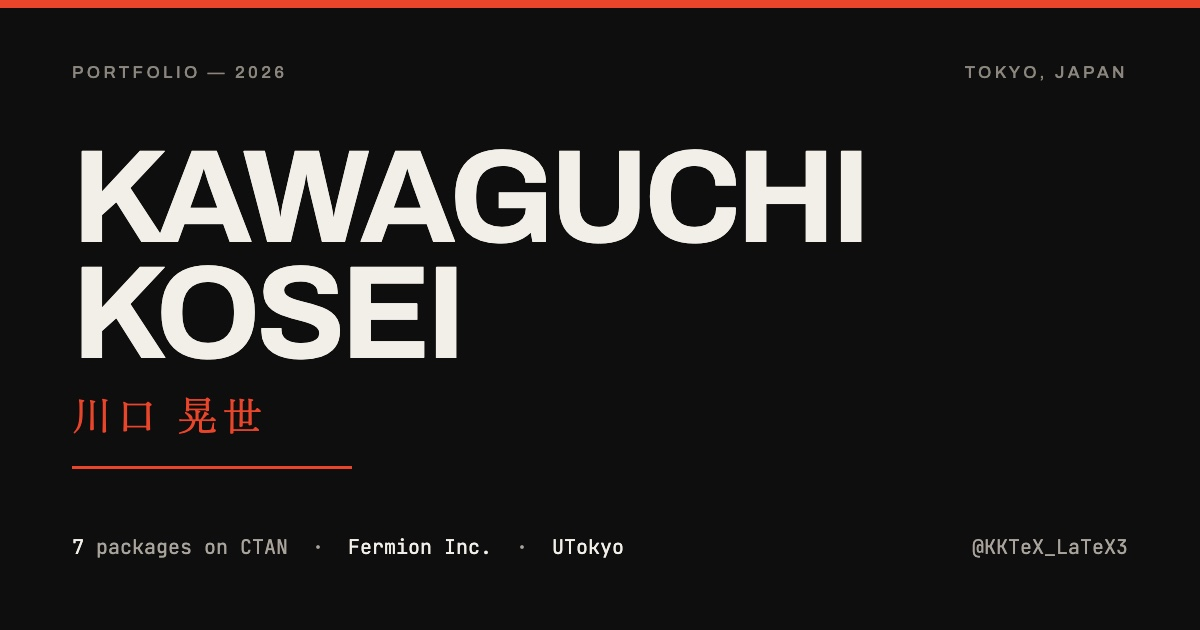
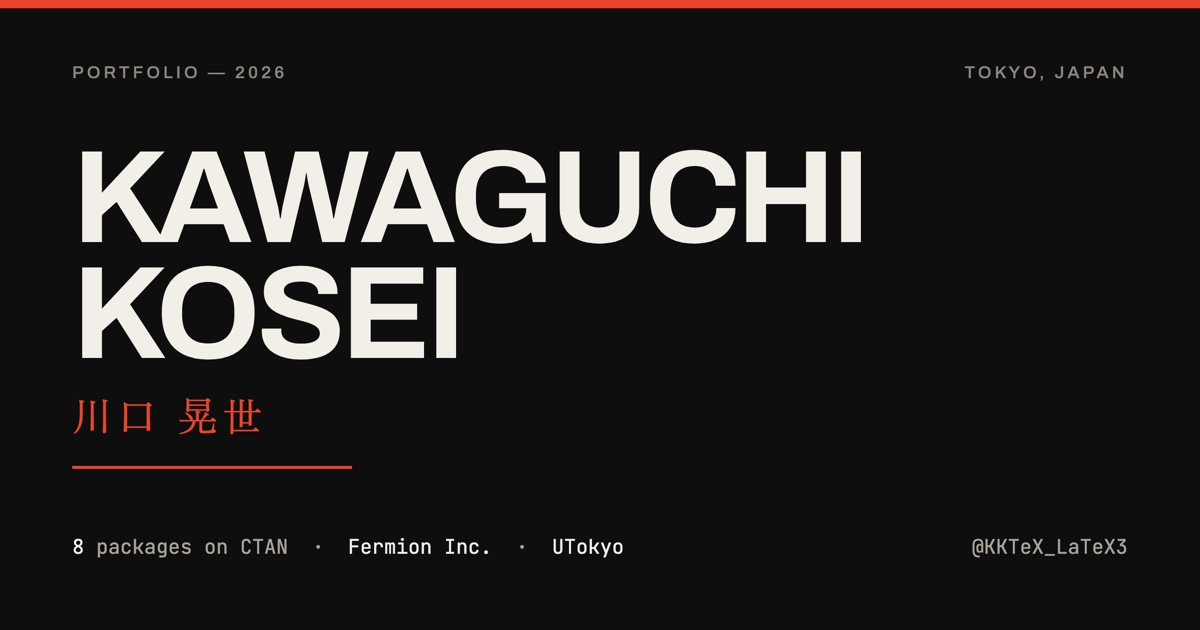
Give the MCP card a real image and add paracolrule
The TeX64 MCP product card had no image — the canvas export drew a CSS
terminal mock ($ curl mcp.tex64.com) in the slot the other three cards
fill with an OG image. Neither Fermion's own og:image (the company logo)
nor the MCP page's (the TeX64 one, already on the card beside it) is
worth reusing, so the card gets a composed image instead: the three
typeset samples the MCP page itself publishes, fanned on the card's dark
ground. They are the pages the server produced for a B5 lecture note,
which is the thing the card is actually selling.

paracolrule reached CTAN on 2026-08-22, so the Packages grid takes it as
the 8th card, replacing the vermilion "typeset sample" placeholder the
handoff left there — a card keeps the grid at a clean 4x2, whereas
adding one would have stranded a single cell on a third row. Seven
became eight everywhere it is counted: both hero paragraphs, the hero
stat, the Packages heading, the About paragraphs, the 2025-26 timeline
row, and the head strings and social card that assemble.py and og.html
generate.

The first two are body edits the canvas export does not carry, so
build/README.md now lists what a regeneration would silently revert.

diff --git a/public/index.html b/public/index.html
@@ -4,7 +4,7 @@
 <meta charset="utf-8">
 <meta name="viewport" content="width=device-width, initial-scale=1">
 <title>川口 晃世 / KKTeX — Portfolio</title>
-<meta name="description" content="TeXで組版の道具をつくっています。CTAN公式パッケージ7本の著作者、株式会社Fermion共同創業者、東京大学理科一類1年。">
+<meta name="description" content="TeXで組版の道具をつくっています。CTAN公式パッケージ8本の著作者、株式会社Fermion共同創業者、東京大学理科一類1年。">
 <meta name="author" content="川口 晃世 (KKTeX)">
 <meta name="theme-color" content="#0E0E0E">
 <link rel="canonical" href="https://kktexportfolio.klassikore.com/">
@@ -13,11 +13,11 @@
 <meta property="og:site_name" content="KKTeX">
 <meta property="og:url" content="https://kktexportfolio.klassikore.com/">
 <meta property="og:title" content="川口 晃世 / KKTeX — Portfolio">
-<meta property="og:description" content="TeXで組版の道具をつくっています。CTAN公式パッケージ7本の著作者、株式会社Fermion共同創業者、東京大学理科一類1年。">
+<meta property="og:description" content="TeXで組版の道具をつくっています。CTAN公式パッケージ8本の著作者、株式会社Fermion共同創業者、東京大学理科一類1年。">
 <meta property="og:image" content="https://kktexportfolio.klassikore.com/uploads/og.jpg">
 <meta property="og:image:width" content="1200">
 <meta property="og:image:height" content="630">
-<meta property="og:image:alt" content="Kosei Kawaguchi (KKTeX) — author of seven packages on CTAN, co-founder of Fermion Inc., first-year student at the University of Tokyo.">
+<meta property="og:image:alt" content="Kosei Kawaguchi (KKTeX) — author of eight packages on CTAN, co-founder of Fermion Inc., first-year student at the University of Tokyo.">
 <meta property="og:locale" content="ja_JP">
 <meta property="og:locale:alternate" content="en_US">
 
@@ -25,7 +25,7 @@
 <meta name="twitter:site" content="@KKTeX_LaTeX3">
 <meta name="twitter:creator" content="@KKTeX_LaTeX3">
 <meta name="twitter:title" content="川口 晃世 / KKTeX — Portfolio">
-<meta name="twitter:description" content="TeXで組版の道具をつくっています。CTAN公式パッケージ7本の著作者、株式会社Fermion共同創業者、東京大学理科一類1年。">
+<meta name="twitter:description" content="TeXで組版の道具をつくっています。CTAN公式パッケージ8本の著作者、株式会社Fermion共同創業者、東京大学理科一類1年。">
 <meta name="twitter:image" content="https://kktexportfolio.klassikore.com/uploads/og.jpg">
 
 <!-- Google Search Console ownership. Keep this: removing it un-verifies the property. -->
@@ -51,8 +51,8 @@
       "givenName": "晃世",
       "url": "https://kktexportfolio.klassikore.com/",
       "image": "https://kktexportfolio.klassikore.com/uploads/og.jpg",
-      "description": "TeXで組版の道具をつくっています。CTAN公式パッケージ7本の著作者、株式会社Fermion共同創業者、東京大学理科一類1年。",
-      "disambiguatingDescription": "Author of seven official packages on CTAN, co-founder of Fermion Inc., first-year student at the University of Tokyo. Currently writing a book on expl3.",
+      "description": "TeXで組版の道具をつくっています。CTAN公式パッケージ8本の著作者、株式会社Fermion共同創業者、東京大学理科一類1年。",
+      "disambiguatingDescription": "Author of eight official packages on CTAN, co-founder of Fermion Inc., first-year student at the University of Tokyo. Currently writing a book on expl3.",
       "knowsAbout": ["TeX", "LaTeX", "expl3", "組版", "typesetting"],
       "affiliation": {
         "@type": "CollegeOrUniversity",
@@ -86,7 +86,7 @@
       "@id": "https://kktexportfolio.klassikore.com/#website",
       "url": "https://kktexportfolio.klassikore.com/",
       "name": "川口 晃世 / KKTeX — Portfolio",
-      "description": "TeXで組版の道具をつくっています。CTAN公式パッケージ7本の著作者、株式会社Fermion共同創業者、東京大学理科一類1年。",
+      "description": "TeXで組版の道具をつくっています。CTAN公式パッケージ8本の著作者、株式会社Fermion共同創業者、東京大学理科一類1年。",
       "inLanguage": ["ja", "en"],
       "author": {"@id": "https://kktexportfolio.klassikore.com/#person"},
       "publisher": {"@id": "https://kktexportfolio.klassikore.com/#person"},
@@ -255,10 +255,10 @@ pre{min-height:244px}
       <div data-reveal="1" style="margin-top:14px;font:400 clamp(19px,3.6cqw,40px)/1 'Zen Old Mincho',serif;letter-spacing:.1em;color:#E8452A">川口 晃世</div>
       <div data-rule="1" style="margin-top:28px;height:1px;background:#E8452A"></div>
       
-        <p data-l="ja"  data-reveal="1" style="margin:26px 0 0;max-width:26em;font:400 clamp(16px,1.6vw,19px)/2.05 'Zen Old Mincho',serif;color:#CFCBC2;text-wrap:pretty">TeXで組版の道具をつくっています。CTAN公式パッケージ7本の著作者、株式会社Fermion共同創業者、東京大学理科一類1年。</p>
+        <p data-l="ja"  data-reveal="1" style="margin:26px 0 0;max-width:26em;font:400 clamp(16px,1.6vw,19px)/2.05 'Zen Old Mincho',serif;color:#CFCBC2;text-wrap:pretty">TeXで組版の道具をつくっています。CTAN公式パッケージ8本の著作者、株式会社Fermion共同創業者、東京大学理科一類1年。</p>
       
       
-        <p data-l="en"  data-reveal="1" style="margin:26px 0 0;max-width:28em;font:400 clamp(17px,1.7vw,20px)/1.85 'EB Garamond',serif;color:#CFCBC2;text-wrap:pretty">I build typesetting tools in TeX. Author of seven packages on CTAN, co-founder of Fermion Inc., first-year student at the University of Tokyo.</p>
+        <p data-l="en"  data-reveal="1" style="margin:26px 0 0;max-width:28em;font:400 clamp(17px,1.7vw,20px)/1.85 'EB Garamond',serif;color:#CFCBC2;text-wrap:pretty">I build typesetting tools in TeX. Author of eight packages on CTAN, co-founder of Fermion Inc., first-year student at the University of Tokyo.</p>
       
     </div>
     <div style="display:flex;flex-direction:column;gap:22px">
@@ -288,7 +288,7 @@ pre{min-height:244px}
     </div>
   </div>
   <div style="margin-top:44px;display:grid;grid-template-columns:repeat(auto-fit,minmax(190px,1fr));gap:1px;background:rgba(242,239,232,.18);border-top:1px solid rgba(242,239,232,.18)">
-    <div data-reveal="1" style="background:#0E0E0E;padding:22px 0 0"><div style="font:700 clamp(38px,5vw,64px)/1 Archivo,sans-serif;letter-spacing:-.02em;color:#E8452A">07</div><div data-l="ja"  style="margin-top:8px;font:400 13px/1.7 'Zen Old Mincho',serif;color:#8B867D">CTAN公式パッケージ</div><div data-l="en"  style="margin-top:8px;font:400 14px/1.6 'EB Garamond',serif;color:#8B867D">packages on CTAN</div></div>
+    <div data-reveal="1" style="background:#0E0E0E;padding:22px 0 0"><div style="font:700 clamp(38px,5vw,64px)/1 Archivo,sans-serif;letter-spacing:-.02em;color:#E8452A">08</div><div data-l="ja"  style="margin-top:8px;font:400 13px/1.7 'Zen Old Mincho',serif;color:#8B867D">CTAN公式パッケージ</div><div data-l="en"  style="margin-top:8px;font:400 14px/1.6 'EB Garamond',serif;color:#8B867D">packages on CTAN</div></div>
     <div data-stat data-reveal="1" style="background:#0E0E0E;padding:22px 0 0 20px"><div style="font:700 clamp(38px,5vw,64px)/1 Archivo,sans-serif;letter-spacing:-.02em;color:#F2EFE8">4</div><div data-l="ja"  style="margin-top:8px;font:400 13px/1.7 'Zen Old Mincho',serif;color:#8B867D">Fermionのプロダクト</div><div data-l="en"  style="margin-top:8px;font:400 14px/1.6 'EB Garamond',serif;color:#8B867D">products at Fermion</div></div>
     <div data-stat data-reveal="1" style="background:#0E0E0E;padding:22px 0 0 20px"><div style="font:700 clamp(38px,5vw,64px)/1 Archivo,sans-serif;letter-spacing:-.02em;color:#F2EFE8">11/21</div><div data-l="ja"  style="margin-top:8px;font:400 13px/1.7 'Zen Old Mincho',serif;color:#8B867D">TeXConf2026 登壇</div><div data-l="en"  style="margin-top:8px;font:400 14px/1.6 'EB Garamond',serif;color:#8B867D">speaking at TeXConf2026</div></div>
   </div>
@@ -308,12 +308,12 @@ pre{min-height:244px}
         
           <p data-l="ja"  data-reveal="1" style="margin:0;max-width:42em;font:400 clamp(16px,1.35vw,18px)/2.2 'Zen Old Mincho',serif;color:#26251F;text-wrap:pretty">高校一年の冬、同期の影響でLaTeXを触りはじめた。最初にやっていたのは鉄緑会の教材をなんとかして再現することで、黎明期のChatGPTと問答しながら、今見るとひどいと言わざるを得ないコードを書いて無理やり動かしていた。</p>
           <p data-l="ja"  data-reveal="1" style="margin:0;max-width:42em;font:400 clamp(16px,1.35vw,18px)/2.2 'Zen Old Mincho',serif;color:#26251F;text-wrap:pretty">2025年、東京大学理科三類を受験して失敗し、一年の暇ができた。TeXを本格的に扱いはじめたのはここからである。まずTeXの書籍を執筆しようとして翔泳社に持ち込んだが、企画は流れた。その間に書き続けていたOSSパッケージだけが手元に残った。</p>
-          <p data-l="ja"  data-reveal="1" style="margin:0;max-width:42em;font:400 clamp(16px,1.35vw,18px)/2.2 'Zen Old Mincho',serif;color:#26251F;text-wrap:pretty">特殊記号を扱うKKsymbols、解答欄やマークシートを簡単につくるKKran、漢文組版のgckanbunのリワークなど、合計7本の公式パッケージの著作者になった。2026年に東京大学理科一類へ入学し、同大学三年生であった幸川卓実氏と株式会社Fermionを立ち上げた。</p>
+          <p data-l="ja"  data-reveal="1" style="margin:0;max-width:42em;font:400 clamp(16px,1.35vw,18px)/2.2 'Zen Old Mincho',serif;color:#26251F;text-wrap:pretty">特殊記号を扱うKKsymbols、解答欄やマークシートを簡単につくるKKran、漢文組版のgckanbunのリワークなど、合計8本の公式パッケージの著作者になった。2026年に東京大学理科一類へ入学し、同大学三年生であった幸川卓実氏と株式会社Fermionを立ち上げた。</p>
         
         
           <p data-l="en"  data-reveal="1" style="margin:0;max-width:40em;font:400 clamp(17px,1.5vw,20px)/1.95 'EB Garamond',serif;color:#26251F;text-wrap:pretty">I started with LaTeX in the winter of my first high-school year, pushed along by a classmate. What I actually did was try to reproduce my cram-school textbooks, arguing with an early version of ChatGPT and forcing code I would now call unreadable to compile.</p>
           <p data-l="en"  data-reveal="1" style="margin:0;max-width:40em;font:400 clamp(17px,1.5vw,20px)/1.95 'EB Garamond',serif;color:#26251F;text-wrap:pretty">In 2025 I failed the entrance exam for the University of Tokyo's Faculty of Science III, which left me a spare year. That is where TeX became serious. I first tried to write a book and pitched it to Shoeisha; the plan fell through, and what remained were the packages I had been writing all along.</p>
-          <p data-l="en"  data-reveal="1" style="margin:0;max-width:40em;font:400 clamp(17px,1.5vw,20px)/1.95 'EB Garamond',serif;color:#26251F;text-wrap:pretty">Seven of them are now official CTAN packages. In 2026 I entered the University of Tokyo and founded Fermion Inc. with Takumi Yukikawa, then a third-year student there.</p>
+          <p data-l="en"  data-reveal="1" style="margin:0;max-width:40em;font:400 clamp(17px,1.5vw,20px)/1.95 'EB Garamond',serif;color:#26251F;text-wrap:pretty">Eight of them are now official CTAN packages. In 2026 I entered the University of Tokyo and founded Fermion Inc. with Takumi Yukikawa, then a third-year student there.</p>
         
       </div>
     </div>
@@ -343,8 +343,8 @@ pre{min-height:244px}
       </div>
       <div data-tlrow data-reveal="1" style="display:grid;grid-template-columns:minmax(150px,.42fr) minmax(0,1fr);gap:clamp(20px,4vw,56px);align-items:baseline;padding:clamp(20px,2.6vw,32px) 0;border-top:1px solid rgba(242,239,232,.16)">
         <div style="font:700 clamp(34px,5.4vw,76px)/1 Archivo,sans-serif;letter-spacing:-.03em;color:#3A3833">2025–26</div>
-        <div data-l="ja"  style="font:400 clamp(15px,1.3vw,17px)/1.95 'Zen Old Mincho',serif;color:#CFCBC2">CTAN公式パッケージ7本の著作者になる。</div>
-        <div data-l="en"  style="font:400 clamp(16px,1.4vw,18px)/1.8 'EB Garamond',serif;color:#CFCBC2">Became the author of seven official CTAN packages.</div>
+        <div data-l="ja"  style="font:400 clamp(15px,1.3vw,17px)/1.95 'Zen Old Mincho',serif;color:#CFCBC2">CTAN公式パッケージ8本の著作者になる。</div>
+        <div data-l="en"  style="font:400 clamp(16px,1.4vw,18px)/1.8 'EB Garamond',serif;color:#CFCBC2">Became the author of eight official CTAN packages.</div>
       </div>
       <div data-tlrow data-reveal="1" style="display:grid;grid-template-columns:minmax(150px,.42fr) minmax(0,1fr);gap:clamp(20px,4vw,56px);align-items:baseline;padding:clamp(20px,2.6vw,32px) 0;border-top:1px solid rgba(242,239,232,.16)">
         <div style="font:700 clamp(34px,5.4vw,76px)/1 Archivo,sans-serif;letter-spacing:-.03em;color:#3A3833">2026</div>
@@ -365,7 +365,7 @@ pre{min-height:244px}
   <div style="max-width:1180px;margin:0 auto">
     <div style="display:flex;align-items:baseline;justify-content:space-between;gap:20px;font:500 10.5px/1 Archivo,sans-serif;letter-spacing:.2em;text-transform:uppercase;color:#6E6A63"><div>03 — Packages</div><a href="https://ctan.org/author/kktex" style="font:400 11px/1 'JetBrains Mono',monospace;letter-spacing:.04em;color:#0E0E0E" class="hv3">ctan.org/author/kktex ↗</a></div>
     <div data-rule="1" style="margin-top:14px;height:1px;background:rgba(14,14,14,.22)"></div>
-    <h2 data-mask="view" style="margin:clamp(28px,3.6vw,48px) 0 0;font:700 clamp(30px,5.2vw,74px)/1 Archivo,sans-serif;letter-spacing:-.03em;color:#0E0E0E"><span class="m">Seven packages<br>on CTAN</span></h2>
+    <h2 data-mask="view" style="margin:clamp(28px,3.6vw,48px) 0 0;font:700 clamp(30px,5.2vw,74px)/1 Archivo,sans-serif;letter-spacing:-.03em;color:#0E0E0E"><span class="m">Eight packages<br>on CTAN</span></h2>
     <div data-cardgrid style="margin-top:clamp(32px,4vw,56px);display:grid;grid-template-columns:repeat(auto-fill,minmax(290px,1fr));gap:1px;background:rgba(14,14,14,.2);border:1px solid rgba(14,14,14,.2)">
       <a data-reveal="1" data-card href="https://ctan.org/pkg/kksymbols" style="display:flex;flex-direction:column;gap:12px;padding:26px;background:#F2EFE8;color:#0E0E0E" class="hv4">
         <div style="display:flex;justify-content:space-between;align-items:baseline;gap:10px"><div style="font:500 clamp(16px,5.8cqw,19px)/1 'JetBrains Mono',monospace">KKsymbols</div><div style="font:500 10px/1 Archivo,sans-serif;letter-spacing:.16em;color:#E8452A">01</div></div>
@@ -402,7 +402,11 @@ pre{min-height:244px}
         <div style="font:400 15px/1.7 'EB Garamond',serif;opacity:.75">Provides underlines and other highlighting which can be used in vertical mode.</div>
         <div data-l="ja"  style="font:400 13px/1.9 'Zen Old Mincho',serif;opacity:.6">縦組でも使える下線・強調。</div>
       </a>
-      <div data-reveal="1" style="display:flex;align-items:flex-end;padding:26px;background:#E8452A;color:#F2EFE8;font:500 11px/1.8 Archivo,sans-serif;letter-spacing:.16em;text-transform:uppercase">typeset sample<br>組版サンプル</div>
+      <a data-reveal="1" data-card href="https://ctan.org/pkg/paracolrule" style="display:flex;flex-direction:column;gap:12px;padding:26px;background:#F2EFE8;color:#0E0E0E" class="hv4">
+        <div style="display:flex;justify-content:space-between;align-items:baseline;gap:10px"><div style="font:500 clamp(16px,5.8cqw,19px)/1 'JetBrains Mono',monospace">paracolrule</div><div style="font:500 10px/1 Archivo,sans-serif;letter-spacing:.16em;color:#E8452A">08</div></div>
+        <div style="font:400 15px/1.7 'EB Garamond',serif;opacity:.75">Decorative separator rules for paracol.</div>
+        <div data-l="ja"  style="font:400 13px/1.9 'Zen Old Mincho',serif;opacity:.6">paracolの段間罫を実線・破線・点線・二重線などで描き分ける。</div>
+      </a>
     </div>
   </div>
 </section>
@@ -432,7 +436,7 @@ pre{min-height:244px}
         <div style="padding:22px"><div style="display:flex;justify-content:space-between;align-items:baseline;gap:10px"><div style="font:500 clamp(15px,4.6cqw,18px)/1 'JetBrains Mono',monospace">Evolton</div><div style="font:400 11px/1 'JetBrains Mono',monospace;color:#E8452A">evolton.jp ↗</div></div><div data-l="ja"  style="margin-top:12px;font:400 13.5px/2 'Zen Old Mincho',serif;color:#A9A49B">問題の写真から解答PDFを作成。13大学・4,313問の入試数学 過去問データベースとオーダーメイド問題集。</div><div data-l="en"  style="margin-top:12px;font:400 15px/1.8 'EB Garamond',serif;color:#A9A49B">Answer PDFs built from a photo of a problem, plus a database of 4,313 entrance-exam problems from 13 universities.</div></div>
       </a>
       <a data-reveal="1" data-card href="https://tex64.com/ja/mcp" style="display:flex;flex-direction:column;background:#0E0E0E;color:#F2EFE8" class="hv5">
-        <div style="aspect-ratio:3/2;border-bottom:1px solid rgba(242,239,232,.2);display:flex;align-items:center;justify-content:center;padding:24px;background:#000"><div style="font:400 14px/1.95 'JetBrains Mono',monospace;color:#F2EFE8">$ curl mcp.tex64.com<br><span style="color:#E8452A">TeX64 MCP: ok</span></div></div>
+        <img src="uploads/tex64-mcp-og.jpg" alt="TeX64 MCP" style="display:block;width:100%;aspect-ratio:3/2;object-fit:contain;background:#000;border-bottom:1px solid rgba(242,239,232,.2)">
         <div style="padding:22px"><div style="display:flex;justify-content:space-between;align-items:baseline;gap:10px"><div style="font:500 clamp(15px,4.6cqw,18px)/1 'JetBrains Mono',monospace">TeX64 MCP</div><div style="font:400 11px/1 'JetBrains Mono',monospace;color:#E8452A">tex64.com/ja/mcp ↗</div></div><div data-l="ja"  style="margin-top:12px;font:400 13.5px/2 'Zen Old Mincho',serif;color:#A9A49B">TeX64のMCPサーバ。AIエージェントから組版環境を叩くためのエンドポイント。</div><div data-l="en"  style="margin-top:12px;font:400 15px/1.8 'EB Garamond',serif;color:#A9A49B">The MCP server for TeX64 — an endpoint for AI agents to reach the typesetting environment.</div></div>
       </a>
     </div>

diff --git a/build/mcp-card.html b/build/mcp-card.html
@@ -1,0 +1,21 @@
+<!DOCTYPE html><html><head><meta charset="utf-8">
+<style>
+*{box-sizing:border-box;margin:0}
+body{width:1200px;height:800px;background:#0E0E0E;overflow:hidden;position:relative}
+.stage{position:absolute;inset:0;display:flex;align-items:center;justify-content:center}
+img{position:absolute;height:600px;width:auto;display:block;
+    border:1px solid rgba(242,239,232,.16);background:#F2EFE8}
+.l{transform:translateX(-255px) rotate(-5deg);box-shadow:0 24px 60px rgba(0,0,0,.6)}
+.r{transform:translateX( 255px) rotate( 5deg);box-shadow:0 24px 60px rgba(0,0,0,.6)}
+.c{transform:scale(1.05);box-shadow:0 34px 90px rgba(0,0,0,.75);
+   border-color:rgba(242,239,232,.28)}
+.band{position:absolute;left:0;right:0;bottom:0;height:4px;background:#E8452A}
+</style></head>
+<body>
+<div class="stage">
+  <img class="l" src="assets/mcp/sample-body.png" alt="">
+  <img class="r" src="assets/mcp/sample-exercise.png" alt="">
+  <img class="c" src="assets/mcp/sample-cover.png" alt="">
+</div>
+<div class="band"></div>
+</body></html>

diff --git a/build/og.html b/build/og.html
@@ -25,7 +25,7 @@ h1{font:700 132px/.88 Archivo,sans-serif;letter-spacing:-.035em;color:#F2EFE8}
   <div class="rule"></div>
 </div>
 <div class="bot">
-  <div class="tag"><b>7</b> packages on CTAN &nbsp;·&nbsp; <b>Fermion Inc.</b> &nbsp;·&nbsp; <b>UTokyo</b></div>
+  <div class="tag"><b>8</b> packages on CTAN &nbsp;·&nbsp; <b>Fermion Inc.</b> &nbsp;·&nbsp; <b>UTokyo</b></div>
   <div class="tag">@KKTeX_LaTeX3</div>
 </div>
 </body></html>

diff --git a/build/assemble.py b/build/assemble.py
@@ -31,9 +31,9 @@ body, n = nav_pat.subn(
 assert n == 1, f"nav wrap: {n}"
 
 TITLE = "川口 晃世 / KKTeX — Portfolio"
-DESC  = ("TeXで組版の道具をつくっています。CTAN公式パッケージ7本の著作者、"
+DESC  = ("TeXで組版の道具をつくっています。CTAN公式パッケージ8本の著作者、"
          "株式会社Fermion共同創業者、東京大学理科一類1年。")
-DESC_EN = ("Kosei Kawaguchi (KKTeX) — author of seven packages on CTAN, "
+DESC_EN = ("Kosei Kawaguchi (KKTeX) — author of eight packages on CTAN, "
            "co-founder of Fermion Inc., first-year student at the University of Tokyo.")
 
 head = f'''<meta charset="utf-8">
@@ -86,8 +86,8 @@ head = f'''<meta charset="utf-8">
       "givenName": "晃世",
       "url": "{SITE}/",
       "image": "{SITE}/uploads/og.jpg",
-      "description": "TeXで組版の道具をつくっています。CTAN公式パッケージ7本の著作者、株式会社Fermion共同創業者、東京大学理科一類1年。",
-      "disambiguatingDescription": "Author of seven official packages on CTAN, co-founder of Fermion Inc., first-year student at the University of Tokyo. Currently writing a book on expl3.",
+      "description": "TeXで組版の道具をつくっています。CTAN公式パッケージ8本の著作者、株式会社Fermion共同創業者、東京大学理科一類1年。",
+      "disambiguatingDescription": "Author of eight official packages on CTAN, co-founder of Fermion Inc., first-year student at the University of Tokyo. Currently writing a book on expl3.",
       "knowsAbout": ["TeX", "LaTeX", "expl3", "組版", "typesetting"],
       "affiliation": {{
         "@type": "CollegeOrUniversity",
@@ -121,7 +121,7 @@ head = f'''<meta charset="utf-8">
       "@id": "{SITE}/#website",
       "url": "{SITE}/",
       "name": "川口 晃世 / KKTeX — Portfolio",
-      "description": "TeXで組版の道具をつくっています。CTAN公式パッケージ7本の著作者、株式会社Fermion共同創業者、東京大学理科一類1年。",
+      "description": "TeXで組版の道具をつくっています。CTAN公式パッケージ8本の著作者、株式会社Fermion共同創業者、東京大学理科一類1年。",
       "inLanguage": ["ja", "en"],
       "author": {{"@id": "{SITE}/#person"}},
       "publisher": {{"@id": "{SITE}/#person"}},

diff --git a/build/README.md b/build/README.md
@@ -49,6 +49,19 @@ animation — the failure the handoff notes warn about.
     --screenshot=og.png --window-size=1200,630 "file://$PWD/build/og.html"
   sips -s format jpeg -s formatOptions 88 og.png --out public/uploads/og.jpg
   ```
+- `build/mcp-card.html` — source for the 1200x800 TeX64 MCP card image. It fans
+  the three pages in `build/assets/mcp/`, which are the samples the MCP page
+  itself publishes (`https://tex64.com/mcp/sample-{cover,body,exercise}.png`,
+  fetched 2026-08-23) — a B5 lecture note the server typeset. To re-render:
+  ```
+  "/Applications/Google Chrome.app/Contents/MacOS/Google Chrome" --headless \
+    --force-device-scale-factor=2 --screenshot=mcp.png --window-size=1200,800 \
+    "file://$PWD/build/mcp-card.html"
+  sips -s format jpeg -s formatOptions 92 -Z 1200 mcp.png \
+    --out public/uploads/tex64-mcp-og.jpg
+  ```
+  Render at 2x and let `sips -Z 1200` downsample; at 1x the page text in the
+  fanned pages goes to mush.
 
 ## Images
 
@@ -56,5 +69,25 @@ Product cards hot-linked other sites' OG images in the prototype; they are
 self-hosted in `public/uploads/` now. Re-fetch and re-compress with
 `sips -s format jpeg -s formatOptions 80 -Z 1200 <src> --out <dest>`.
 
-Still outstanding from the handoff: the 8th Packages cell is a vermilion
-placeholder waiting on a real typeset sample image.
+The TeX64 MCP card is the exception: it has no OG image worth reusing — the MCP
+page's own `og:image` is just the TeX64 one, already on the card next to it —
+so it gets a composed image instead. See `build/mcp-card.html` above.
+
+## Edits that are not in the canvas export
+
+`public/index.html` carries three body changes made by hand after the last
+export, so regenerating from that export silently reverts them:
+
+- the TeX64 MCP card's image. The export drew a CSS terminal mock
+  (`$ curl mcp.tex64.com`) in the image slot; it is now an `<img>` matching the
+  other three product cards.
+- the 8th Packages cell. The export left a vermilion `typeset sample /
+  組版サンプル` placeholder there; it is now the **paracolrule** card
+  (CTAN, 2026-08-22), which fills the 4x2 grid exactly.
+- the package count. Seven became eight in the two hero paragraphs, the `08`
+  hero stat, the Packages heading, the About paragraphs and the 2025-26
+  timeline row — and in `assemble.py`'s `DESC`/`DESC_EN`/JSON-LD and in
+  `og.html`, which are regenerated from source and so are safe.
+
+When the next export arrives, re-apply the first two before running
+`assemble.py`, and check the counts against `ctan.org/author/kktex`.
